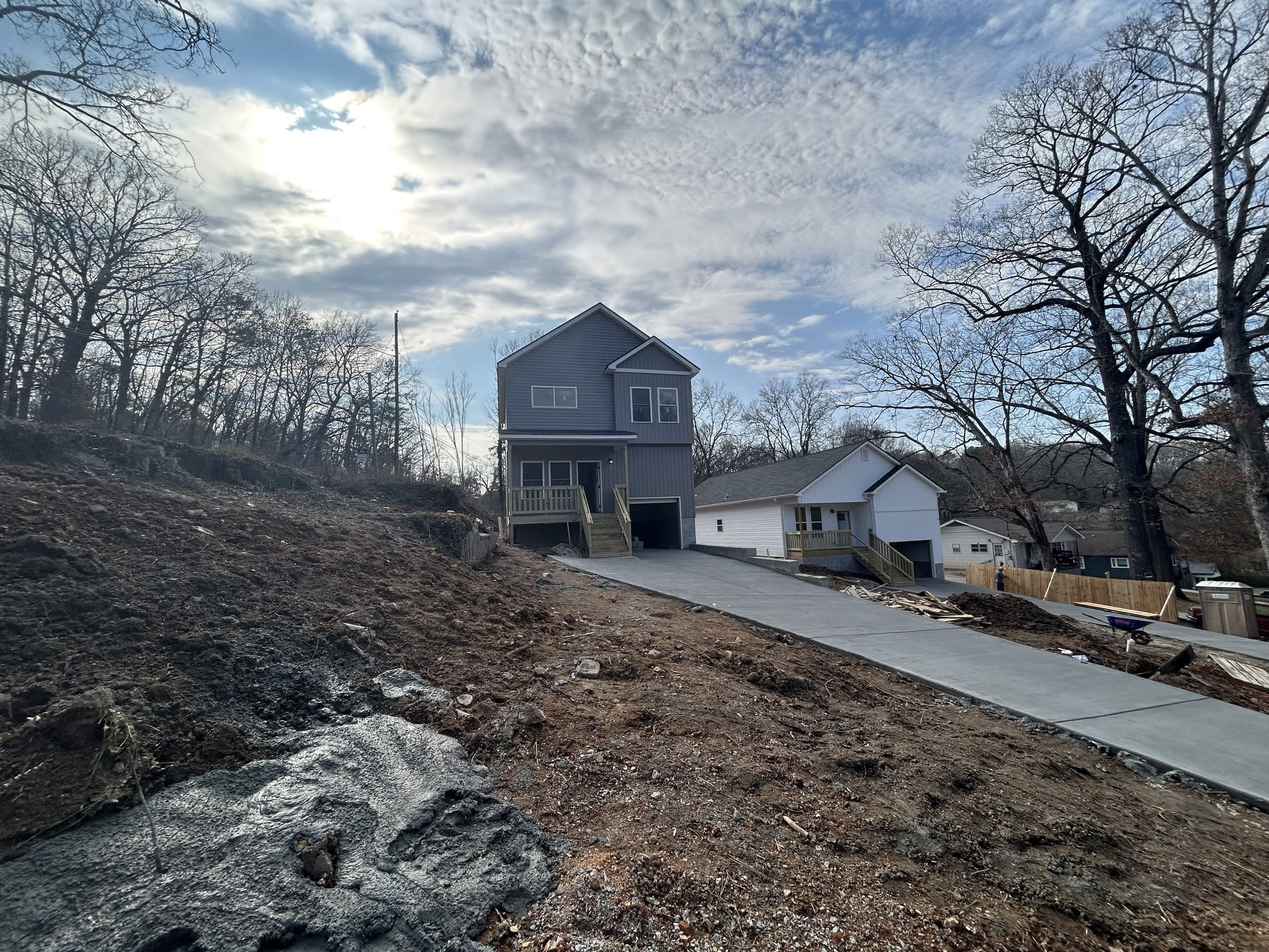
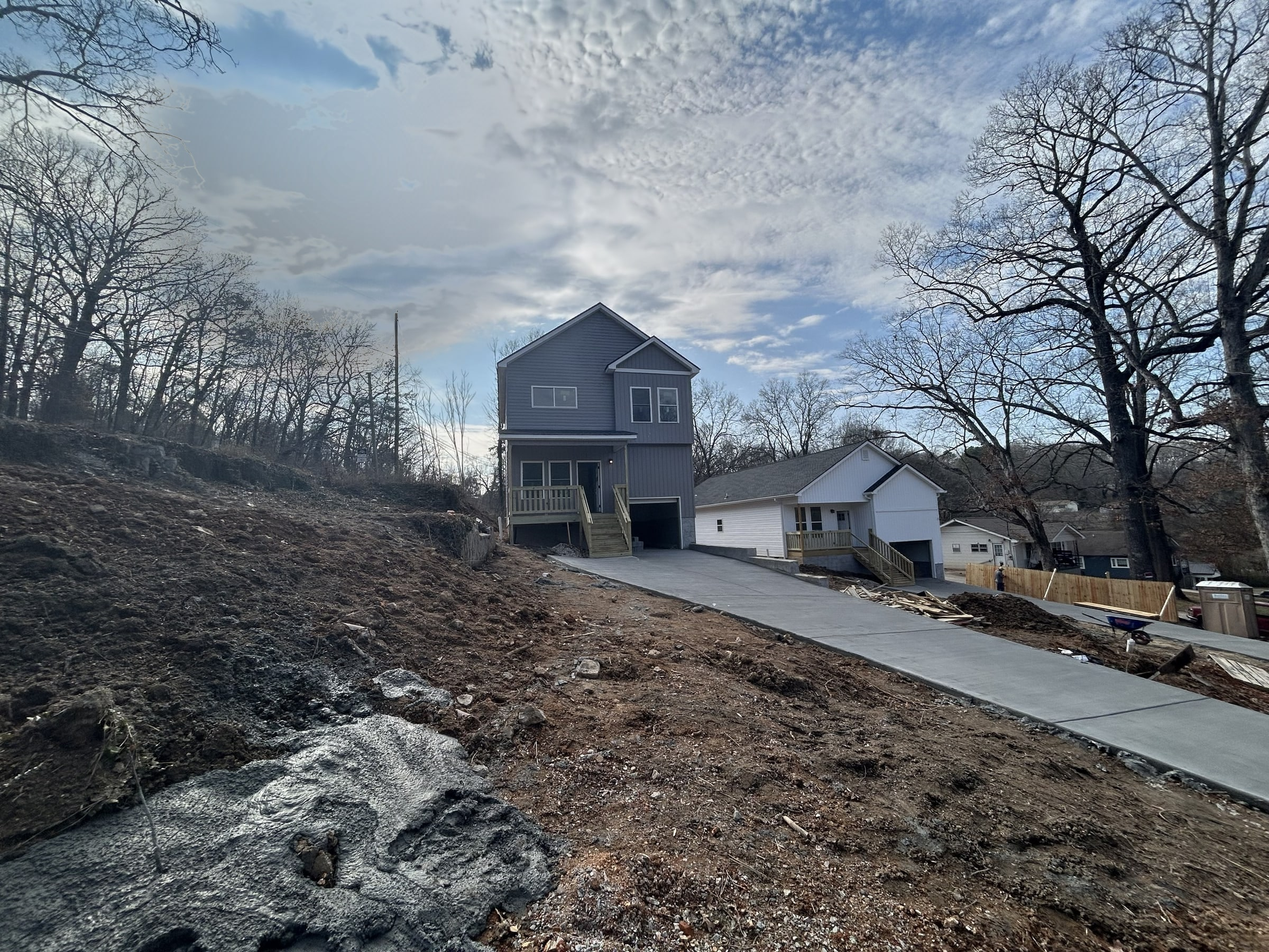
Remove sun glare from site and project photos (full frame kept), trim flare from 2, mobile home teardown: wide shot as the before, drop the backhoe photo

Changed region(s): [[0.0938, 0.0, 0.4375, 0.4044]]

diff --git a/PHOTOGRAPHY-INDEX.md b/PHOTOGRAPHY-INDEX.md
@@ -45,6 +45,7 @@ Placed on the site 2026-11-04 (Jeremy asked for it; he commits and pushes):
 - **Not used, on the bench:** `fb122102115807532034` and `fb122102115783532034` (graded red-clay and gravel drive in the woods; a closer look showed they read as dirt, not as the crushed-stone base `pads-step-3` needs, so that spot keeps IMG_0163), `fb122102098005532034` and `fb122102098293532034` (the hillside job already has two pour shots and two lot shots), `fb122097567753532034` and `fb122102112093532034` (the wall job, toys and an SUV in frame), and the roadside mini-excavator pair from 2026-11-03 (ask Joey what that job is).
 - **Pull of 2026-11-09 (placed the same day, Jeremy asked for it):** new project `projects/2026-11-gravel-parking-pad/` (Driveways, the first Driveways job, so it also shows on Gravel Driveways; town Harrison, per Jeremy): before-1 `fb122108116359532034`, after-1 `fb122108116389532034`, both cropped to the bottom 1536x1152 to cut the sky. `pads-step-3` now uses the same after crop (was IMG_0163), with new alt text on Homeowners and Pads. Notes from the pull: A gravel parking pad beside a white house, same view before (`fb122108116359532034`: leaves over thin old gravel, a pile of new stone) and after (`fb122108116389532034`: fresh compacted crushed stone), Kubota backhoe and mini excavator in both. First real compacted-gravel pad in the library: candidate for `pads-step-3` (replacing the IMG_0163 stand-in), a Gravel Driveways before/after slider, or a small new project. Both are about 40% sky, so crop tight. Ask Joey the town and whether it's a parking pad or a drive.
 - **Pull of 2026-11-11 (placed the same day, Jeremy asked for it):** new project `projects/2026-11-downtown-chattanooga-new-home-driveway/` (Concrete; town Downtown Chattanooga, per Jeremy; status In Progress): before-1 `fb122109137487532034` (trench beside the new home, top cropped), progress-1 `fb122109137535532034` (digging the trench, portrait), progress-2 `fb122109137451532034` (gravel base ready for concrete, cropped to drop a For Sale sign with a phone number). Until there is an after photo, the slider shows before-1 against progress-2. Joey's post says the concrete goes in on 2026-11-12: **when he posts the finished drive, add it as after-1 and change status to Completed.** Not finished work, so keep these off the hero.
+- **Glare cleanup (2026-11-11, Jeremy asked):** every site and project photo checked for sun in frame and lens flare. Jeremy turned down tight crops ("super zoomed in, not showing the yard"), so the full frame is kept and only the sky is touched: the blown sun disc is filled with the surrounding sky colour, and on the two worst mobile home shots the white glare veil is also pulled back. Done on drainage after-2 and after-3, mobile home before-2, progress-1 and after-1, concrete driveway after-3 and after-4, and page photo svc-drainage-hero. Cropped instead: East Brainerd after-3 (a light streak down the frame, trimmed off the left) and downtown driveway before-1 (recut from the Facebook original). Left as is: final grading after-2 / svc-driveways-hero (only faint flare rays in the trees). The untouched originals stay in Drive and Facebook.
 - The stamped patio answers the old "Ask Joey about the stamped concrete patio" item only partly: `IMG_5062`/`IMG_5074` in Drive are a different patio.
 
 ## Google Business Profile picks (2026-11-04)
@@ -417,7 +418,7 @@ Status: **Used** (on the site now), **Available** (usable, not on the site), **W
 - Re-checked the same afternoon and put back: `IMG_6867` (garage pad progress-1) and `IMG_8090` (final grading after-3). Their capture dates fit the jobs (IMG_6867 is 9 Aug 2025, two days before that slab was poured; IMG_8090 is the day after the other final-grading photos), and the earlier review placed them using GPS, which the Drive copies no longer carry. Joey can still confirm.
 
 Second pull 2026-11-07 (Jeremy sent the photos; dates are Joey's posts of 2026-11-06):
-- **New project `projects/2026-11-mobile-home-teardown/`** (Property Cleanup, so it is also the "Recent job like this" on the Demolition & Cleanup page): before-1 `fb122105896851532034` / after-1 `fb122105896815532034` (slider), before-2 `fb122105896875532034` (swapped 2026-11-11: the old before-1 had the sun in frame), progress-1 `fb122105896893532034`, progress-2 `fb122105896827532034` (cropped), after-2 `fbnoid-cleared-lot` (cropped). Crops keep the dumpster company's sign and phone number off the site. Town unknown: ask Joey.
+- **New project `projects/2026-11-mobile-home-teardown/`** (Property Cleanup, so it is also the "Recent job like this" on the Demolition & Cleanup page): before-1 `fb122105896875532034` / after-1 `fb122105896815532034` (slider), (before-2 `fb122105896851532034`, the backhoe in front of the home, was taken off on 2026-11-11: Jeremy said it "does not show anything"; the slider before is the wide shot of the whole home, sun toned out), progress-1 `fb122105896893532034`, progress-2 `fb122105896827532034` (cropped), after-2 `fbnoid-cleared-lot` (cropped). Crops keep the dumpster company's sign and phone number off the site. Town unknown: ask Joey.
 - **Homepage "Meet Joey"**: `photos/site/home-owner.jpg` is `fb122105881167532034` (Joey with Tom, the customer), lightly brightened, 4:3.
 - **Not used:** `fb122105893143532034` (house number and people on the porch).
 - **Worth a swap later:** the Demolition page and homepage demolition card still show brush clearing; `fb122105896893532034` (excavator on the debris pile) is the first real teardown shot.

diff --git a/photos/facebook/README.md b/photos/facebook/README.md
@@ -36,7 +36,7 @@ Where the saved ones went on the site: "Facebook photos" in `PHOTOGRAPHY-INDEX.m
 | 122105894061532034 (image 122105896839532034) | 2026-11-06 | Already saved as `2026-11-06_fbnoid-cleared-lot.jpg` (dHash distance 6) | Seeded and strawed lot, dumpster | Mobile home teardown |
 | 122097560493532034 | 2026-10-28 | Skipped (a graphic, not a job photo) | | |
 | 122105896875532034 | 2026-11-06 | Saved, used | Wide before: old mobile home, backhoe in front, mini excavator by the shed | Mobile home teardown (Joey's posts: "removal and clean up of an old mobile home", "seed and straw") |
-| 122105896851532034 | 2026-11-06 | Saved, used | Backhoe parked in front of the mobile home, mini excavator behind | Same |
+| 122105896851532034 | 2026-11-06 | Saved, taken off the site 2026-11-11 (Jeremy: "does not show anything") | Backhoe parked in front of the mobile home, mini excavator behind | Same |
 | 122105893143532034 | 2026-11-06 | Saved, not for the site | Before, machines and the home; two people on the porch steps and the house number on the post | Same |
 | 122105896827532034 | 2026-11-06 | Saved, used (cropped) | From the backhoe seat: home half torn down, debris, mattresses, rented dumpsters (crop drops the dumpster company's sign) | Same |
 | 122105896893532034 | 2026-11-06 | Saved, used | Mini excavator and backhoe on the flattened debris pile | Same |
